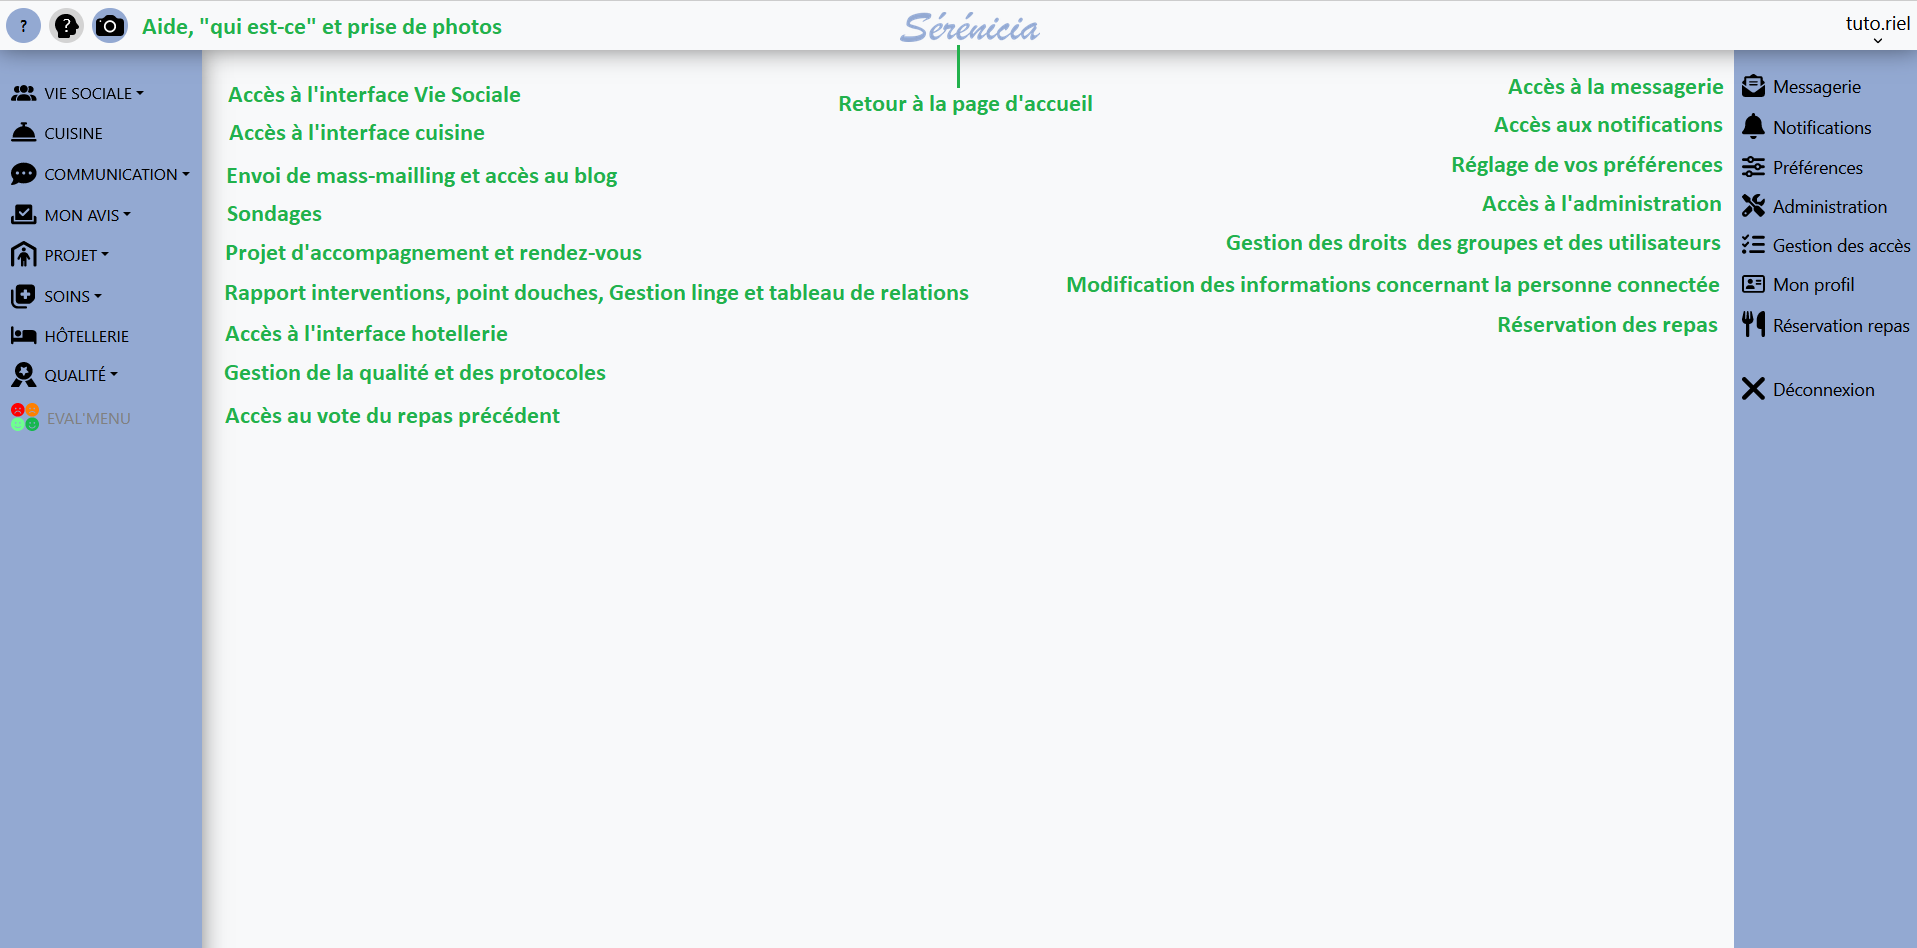
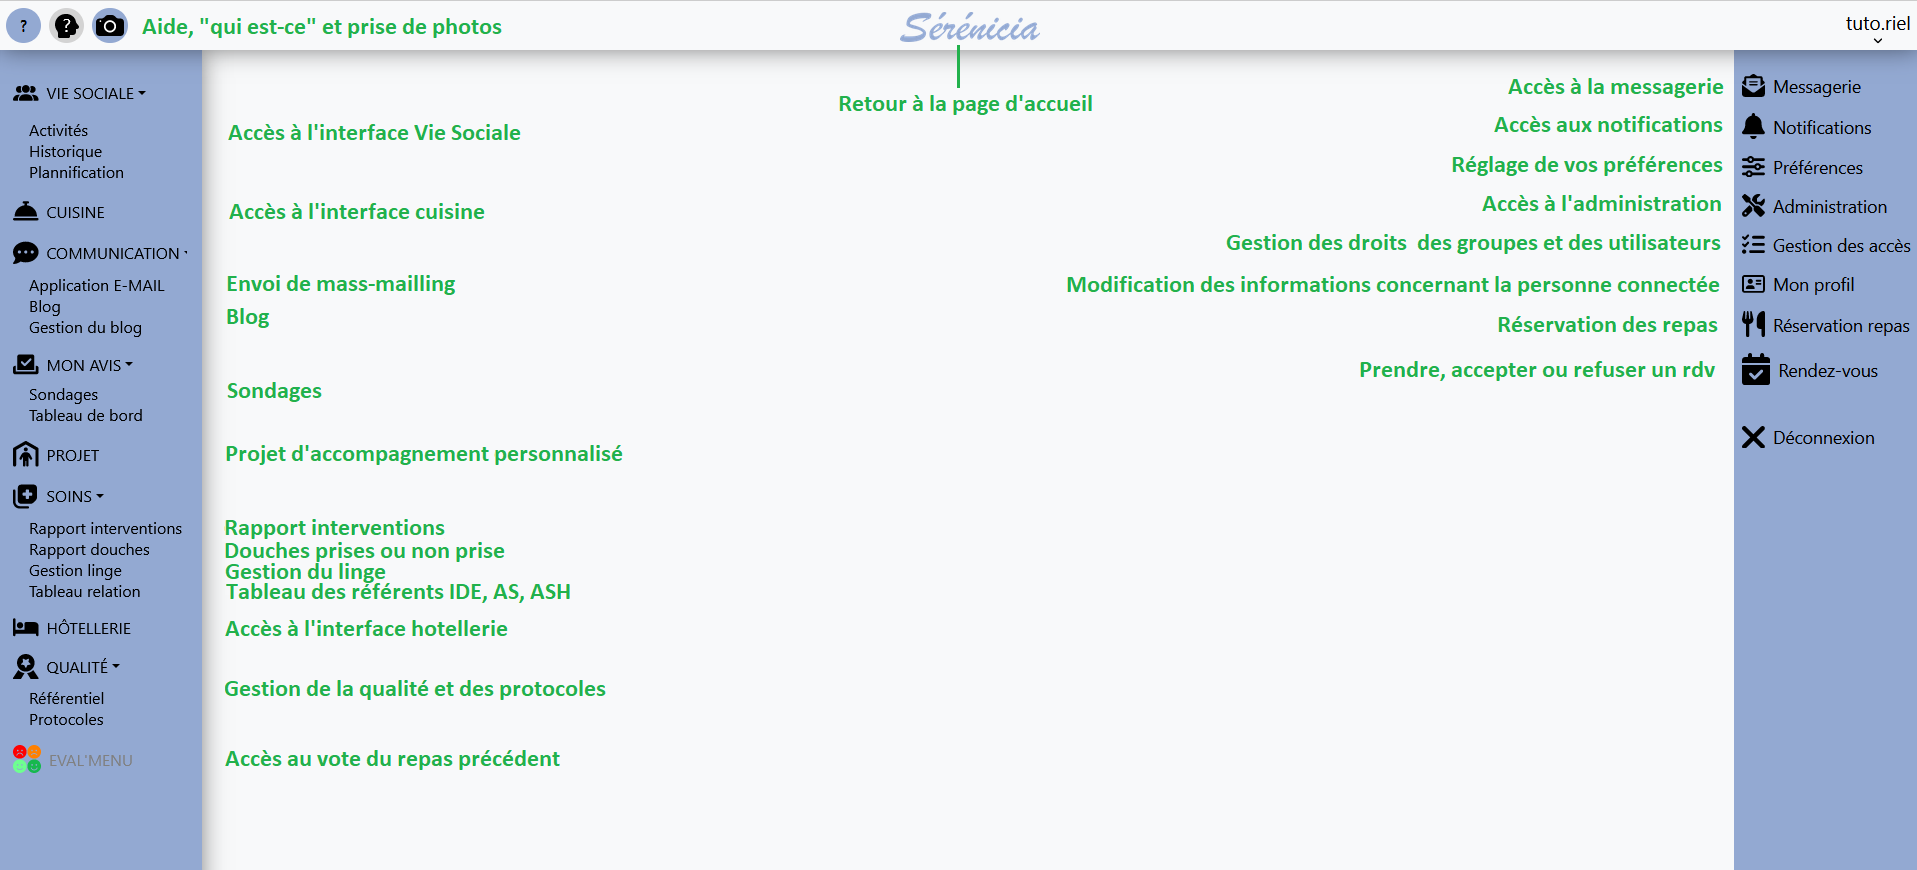
Améliorations front + modification aide barre de navigation

diff --git a/app8_survey/templates/app8_survey/details.html b/app8_survey/templates/app8_survey/details.html
@@ -3,25 +3,16 @@
 {% load app8_custom_filters %}
 
 {% block content %}
-<head>
-    <style>
-        .definitive-answer{
-            pointer-events: none;
-        }
-        .comment-area{
-            width: 100%;
-            height: 350px;
-        }
-    </style>
-</head>
-<main class="container pt-2">
+
+
+<main class="container pt-3">
     <div class="d-flex justify-content-between align-items-center">
         <h1>{{ survey.title }} {{ survey.year }}</h1>
         <div>
             <a href="{% url 'app8_survey download report' survey_id=survey.id %}" class="btn btn-perso {% if answers_count < 1 %}disabled{% endif %}">{% trans 'Download report' %}</a>
         </div>
     </div>
-    <h5 class="text-right">{{ answers_count }} {% trans 'Response' %}{{ answers_count|pluralize }}</h5>
+    <h5 class="text-right) pb-2">{{ answers_count }} {% trans 'Response' %}{{ answers_count|pluralize }}</h5>
     <div class="accordion">
         <div class="accordion-item">
             <h2 class="accordion-header">
@@ -30,60 +21,70 @@
                 </button>
             </h2>
             <div id="panelintro" class="accordion-collapse collapse {% if request.method == 'GET' %}show{% endif %}" aria-labelledby="panelsStayOpen-headingOne">
-                <div class="accordion-body">
+                <div class="accordion-body p-1 p-sm-3">
                     <span class="fw-bold">{{ survey.intro|linebreaks }}</span>
                 </div>
             </div>
         </div>
-    {% for chapter in survey.chapters.all %}
-        <div class="accordion-item">
-            <h2 class="accordion-header">
-                <button class="accordion-button btn-perso collapsed" type="button" data-bs-toggle="collapse" data-bs-target="#panelchap{{ chapter.id }}" aria-expanded="true" aria-controls="panelchap{{ chapter.id }}">
-                    {{ chapter.number }}. {{ chapter.title }}
-                </button>
-            </h2>
-            <div id="panelchap{{ chapter.id }}" class="accordion-collapse collapse" aria-labelledby="panelsStayOpen-headingOne">
-                <div class="accordion-body">
-                    {% for question in chapter.questions.all %}
-                        <h5>{{ question.number }}. {{ question.text }}</h5>
-                            <div class="d-flex gap-2">
+
+        {% for chapter in survey.chapters.all %}
+            <div class="accordion-item">
+                <h2 class="accordion-header">
+                    <button class="accordion-button btn-perso collapsed" type="button" data-bs-toggle="collapse" data-bs-target="#panelchap{{ chapter.id }}" aria-expanded="true" aria-controls="panelchap{{ chapter.id }}">
+                        {{ chapter.number }}. {{ chapter.title }}
+                    </button>
+                </h2>
+                <div id="panelchap{{ chapter.id }}" class="accordion-collapse collapse" aria-labelledby="panelsStayOpen-headingOne">
+                    <div class="accordion-body p-1 p-sm-3">
+                        {% for question in chapter.questions.all %}
+                            <h5 class="py-1">{{ question.number }}. {{ question.text }}</h5>
+                            <div class="d-flex flex-column gap-1 flex-md-row gap-md-2 mx-5 px-sm-5 px-md-0 mx-md-0">
                                 {% for choice in question.notation_choices.all %}
-                                    <div class="btn btn-perso btn-sm definitive-answer"><span class="fw-bold">{% if answers_count > 0 %}{% answer_count survey=survey.id chapter=chapter.id question=question.id notation=choice.id %}{% endif %}</span> {{ choice.text }}</div>
+                                    <div class="btn btn-perso btn-sm pe-none">
+                                        <span class="fw-bold">
+                                            {% if answers_count > 0 %}
+                                                {% answer_count survey=survey.id chapter=chapter.id question=question.id notation=choice.id %}
+                                            {% endif %}
+                                        </span>
+                                        {{ choice.text }}
+                                    </div>
                                 {% endfor %}
                             </div>
-                    {% endfor %}
-                </div>
-                {% get_comment chapter=chapter.id as comments %}
-                {% if comments %}
-                    <!-- comment modal -->
-                    <div class="modal fade" id="comment-{{ chapter.id }}" tabindex="-1" aria-hidden="true">
-                        <div class="modal-dialog modal-lg">
-                            <div class="modal-content">
-                                <div class="modal-header">
-                                    <div class="d-flex flex-column">
-                                        <h5 class="modal-title">{{ chapter.number }} {{ chapter.title }}</h5>
-                                        <h6>{% if chapter.comment_title %}{{ chapter.comment_title }}{% else %}{% trans 'Comment' %}{% endif %}</h6>
+                        {% endfor %}
+                    </div>
+                    {% get_comment chapter=chapter.id as comments %}
+                    {% if comments %}
+                        <!-- comment modal -->
+                        <div class="modal fade" id="comment-{{ chapter.id }}" tabindex="-1" aria-hidden="true">
+                            <div class="modal-dialog modal-lg">
+                                <div class="modal-content">
+                                    <div class="modal-header">
+                                        <div class="d-flex flex-column">
+                                            <h5 class="modal-title">{{ chapter.number }} {{ chapter.title }}</h5>
+                                            <h6>{% if chapter.comment_title %}{{ chapter.comment_title }}{% else %}{% trans 'Comment' %}{% endif %}</h6>
+                                        </div>
                                     </div>
-                                </div>
-                                <div class="modal-body d-flex flex-column justify-content-center">
-                                    {% for comment in comments %}
-                                        <span>{{ comment.text|linebreaks }}</span>
-                                        {% if not forloop.last %}
-                                            <hr class="mx-auto w-75">
-                                        {% endif %}
-                                    {% endfor %}
-                                </div>
-                                <div class="modal-footer">
-                                    <button class="btn btn-perso" data-bs-dismiss="modal" aria-label="Close">{% trans 'Close' %}</button>
+                                    <div class="modal-body d-flex flex-column justify-content-center">
+                                        {% for comment in comments %}
+                                            <span>{{ comment.text|linebreaks }}</span>
+                                            {% if not forloop.last %}
+                                                <hr class="mx-auto w-75">
+                                            {% endif %}
+                                        {% endfor %}
+                                    </div>
+                                    <div class="modal-footer">
+                                        <button class="btn btn-perso" data-bs-dismiss="modal" aria-label="Close">{% trans 'Close' %}</button>
+                                    </div>
                                 </div>
                             </div>
                         </div>
-                    </div>
-                    <button class="btn btn-perso m-2" data-bs-toggle="modal" data-bs-target="#comment-{{ chapter.id }}">{{ comments.count }} {% trans 'Comment' %}{{ comments.count|pluralize }}</button>
-                {% endif %}
+                        <button class="btn btn-perso m-2" data-bs-toggle="modal" data-bs-target="#comment-{{ chapter.id }}">{{ comments.count }} {% trans 'Comment' %}{{ comments.count|pluralize }}</button>
+                    {% endif %}
+                </div>
             </div>
-        </div>
-    {% endfor %}
+        {% endfor %}
     </div>
 </main>
+
+
 {% endblock content %}
